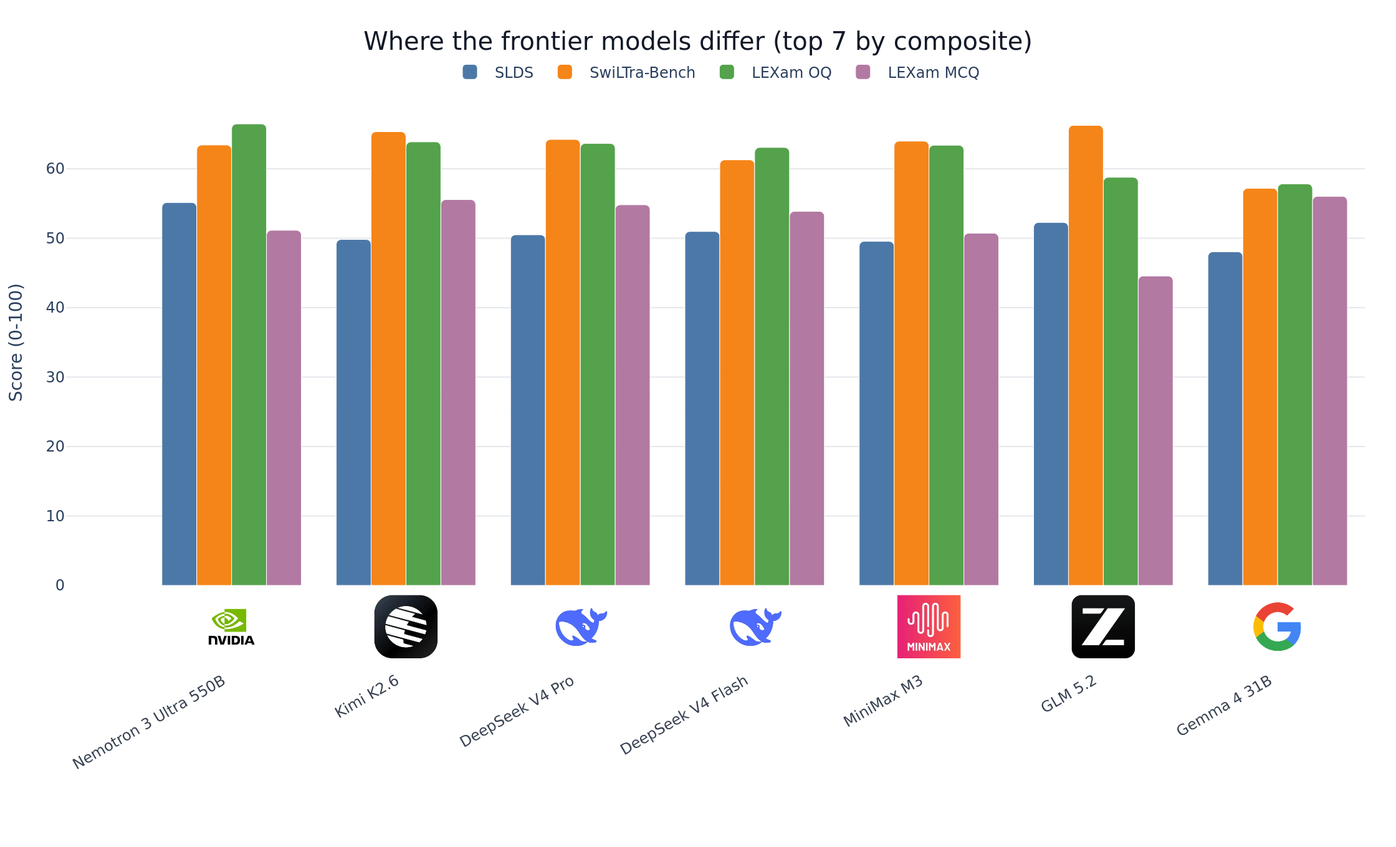
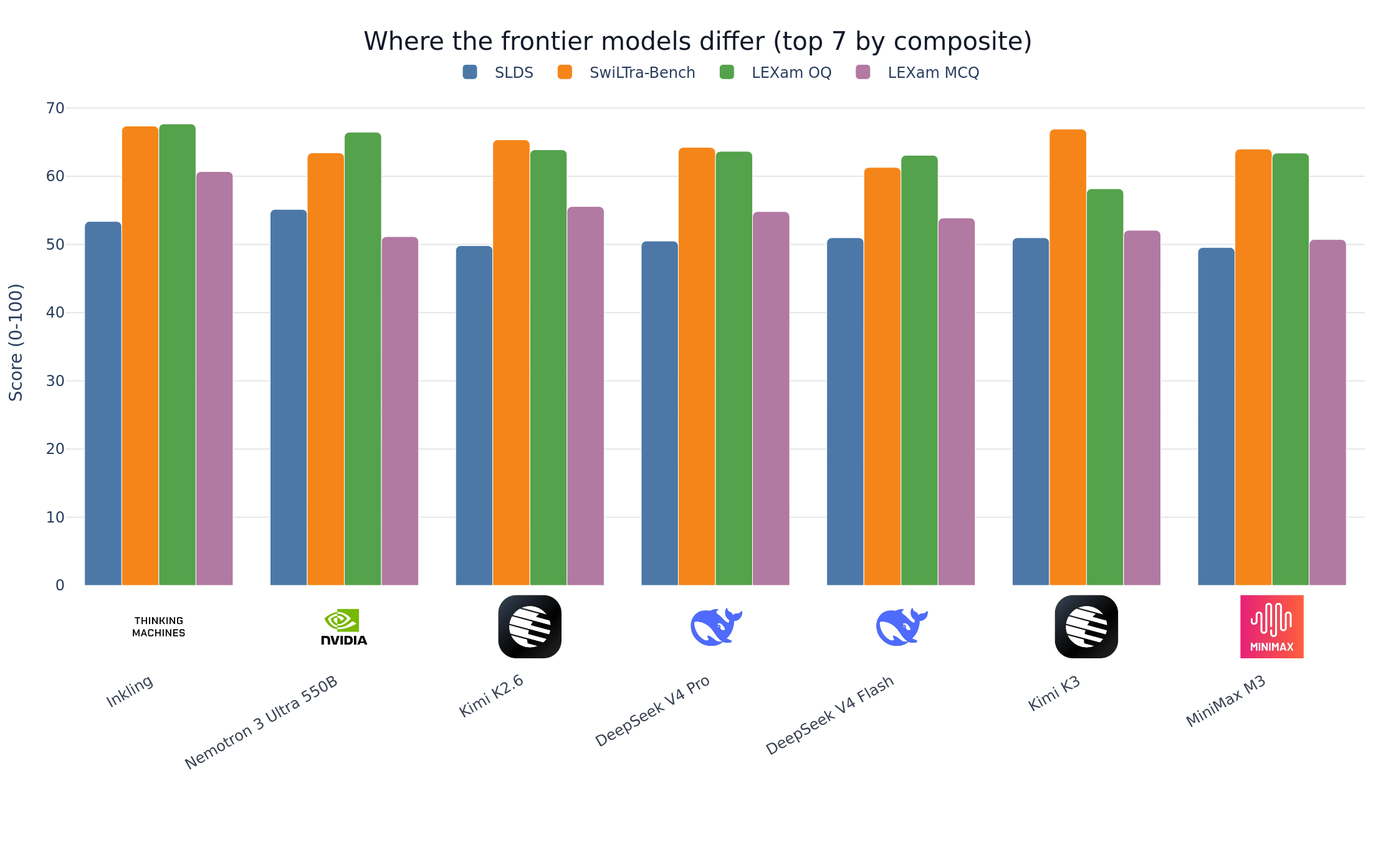
Refresh the blog on all 16 models with corrected MCQ scores
Inkling and Kimi K3 complete the field, and Qwen, OLMo, Apertus and Llama now
carry numbers that are not distorted by the reasoning-trace and option-shuffle
bugs. Both fixes moved models several ranks, so the post needed rewriting rather
than patching: Inkling leads three of four groups, Apertus's MCQ score is 33.8
instead of the 14.0 the shuffle bug produced, and Qwen's translation average
gained 20 points once the judge stopped reading its thinking as the answer.

The lead is reported as provisional because the bootstrap says it is. Adding
the interval as a script makes the claim checkable instead of asserted.

diff --git a/scripts/bootstrap_composite.py b/scripts/bootstrap_composite.py
@@ -1,0 +1,93 @@
+"""Bootstrap a confidence interval for each model's composite score.
+
+The composite averages four task groups, so a ranking gap only means something
+if it survives the spread of the tasks inside those groups. Resampling tasks
+within each group with replacement gives the interval the blog post quotes when
+it calls the leading models tied.
+
+    python scripts/bootstrap_composite.py [--resamples 10000]
+"""
+
+from __future__ import annotations
+
+import argparse
+import logging
+import pathlib
+import sys
+
+import numpy as np
+import pandas as pd
+
+sys.path.insert(0, str(pathlib.Path(__file__).resolve().parents[1] / "src"))
+from swiss_legal_evals.plot import PRIMARY_METRICS  # noqa: E402
+
+logger = logging.getLogger(__name__)
+
+SUMMARY_LONG_CSV = pathlib.Path("results/summary_long.csv")
+# The composite averages these four groups equally, and each group averages its
+# families equally, so the bootstrap has to preserve both levels of weighting.
+GROUPS = {
+    "slds": ["slds"],
+    "lexam_oq": ["lexam_oq"],
+    "translation": ["sdst", "slt", "sscprt"],
+    "mcq": ["lexam_mcq_4_idk", "lexam_mcq_8_idk", "lexam_mcq_16_idk"],
+}
+MCQ_SCALE = 100.0
+
+
+def _task_scores(df: pd.DataFrame) -> pd.DataFrame:
+    """One primary-metric score per model, family, and task."""
+    rows = []
+    for (model, family, task), group in df.groupby(["model", "family", "task"]):
+        if family not in PRIMARY_METRICS:
+            continue
+        available = group["metric"].tolist()
+        metric = next((m for m in PRIMARY_METRICS[family] if m in available), None)
+        if metric is None:
+            continue
+        value = group.loc[group["metric"] == metric, "value"].iloc[0]
+        # MCQ accuracy is 0-1 while the judges score 0-100.
+        scaled = value * MCQ_SCALE if family.startswith("lexam_mcq") else value
+        rows.append({"model": model, "family": family, "task": task, "score": scaled})
+    return pd.DataFrame(rows)
+
+
+def _composite(family_means: dict[str, float]) -> float:
+    return float(np.mean([np.mean([family_means[f] for f in fams]) for fams in GROUPS.values()]))
+
+
+def bootstrap_model(scores: pd.DataFrame, resamples: int, rng: np.random.Generator) -> tuple[float, float]:
+    """Composite score and the half-width of its 95% interval for one model."""
+    by_family = {f: sub["score"].to_numpy() for f, sub in scores.groupby("family")}
+    draws = np.empty(resamples)
+    for i in range(resamples):
+        # Resample tasks inside each family, so every family keeps its weight.
+        draws[i] = _composite({f: rng.choice(v, size=len(v), replace=True).mean() for f, v in by_family.items()})
+    low, high = np.percentile(draws, [2.5, 97.5])
+    return _composite({f: v.mean() for f, v in by_family.items()}), float((high - low) / 2)
+
+
+def main() -> None:
+    logging.basicConfig(level=logging.INFO, format="%(message)s")
+    parser = argparse.ArgumentParser(description=__doc__)
+    parser.add_argument("--resamples", type=int, default=10_000)
+    parser.add_argument("--summary-long", type=pathlib.Path, default=SUMMARY_LONG_CSV)
+    args = parser.parse_args()
+
+    scores = _task_scores(pd.read_csv(args.summary_long))
+    rng = np.random.default_rng(0)
+    rows = []
+    needed = {family for families in GROUPS.values() for family in families}
+    for model, sub in scores.groupby("model"):
+        # Translation-only models have no composite to speak of.
+        if not needed <= set(sub["family"]):
+            continue
+        composite, half_width = bootstrap_model(sub, args.resamples, rng)
+        rows.append({"model": model, "composite": composite, "half_width_95": half_width})
+
+    table = pd.DataFrame(rows).sort_values("composite", ascending=False).round(2)
+    logger.info("\n%s", table.to_string(index=False))
+
+
+if __name__ == "__main__":
+    main()

diff --git a/blog/make_figures.py b/blog/make_figures.py
@@ -53,6 +53,7 @@ DISPLAY_NAMES = {
     "GLM-5.2": "GLM 5.2",
     "Hy-MT2-30B-A3B": "Hunyuan MT2 30B",
     "Kimi-K2.6": "Kimi K2.6",
+    "Kimi-K3": "Kimi K3",
     "Llama-3.3-70B-Instruct": "Llama 3.3 70B",
     "LFM2.5-8B-A1B": "LFM2.5 8B",
     "MiniMax-M3": "MiniMax M3",
@@ -63,6 +64,7 @@ DISPLAY_NAMES = {
     "Apertus-v1.5-70B": "Apertus 1.5 70B",
     "gemma-4-31B-it": "Gemma 4 31B",
     "gpt-oss-120b": "gpt-oss 120B",
+    "Inkling": "Inkling",
 }
 
 # Display name -> Hugging Face org that publishes it (source of the logo).
@@ -72,6 +74,7 @@ ORG_BY_MODEL = {
     "GLM 5.2": "zai-org",
     "Hunyuan MT2 30B": "tencent",
     "Kimi K2.6": "moonshotai",
+    "Kimi K3": "moonshotai",
     "Llama 3.3 70B": "meta-llama",
     "LFM2.5 8B": "LiquidAI",
     "MiniMax M3": "MiniMaxAI",
@@ -82,12 +85,15 @@ ORG_BY_MODEL = {
     "Apertus 1.5 70B": "swiss-ai",
     "Gemma 4 31B": "google",
     "gpt-oss 120B": "openai",
+    "Inkling": "thinkingmachines",
 }
 
 # One distinct, roughly brand-aligned colour per model.
 BRAND_COLORS = {
     "Nemotron 3 Ultra 550B": "#76B900",
     "Kimi K2.6": "#6D5AE6",
+    "Kimi K3": "#9C8CF5",
+    "Inkling": "#1F2937",
     "DeepSeek V4 Pro": "#4D6BFE",
     "DeepSeek V4 Flash": "#8AA0FF",
     "MiniMax M3": "#E1275C",

diff --git a/blog/swiss-legal-evals-2026.md b/blog/swiss-legal-evals-2026.md
@@ -1,22 +1,22 @@
 # The state-of-the-art in open-source AI for Swiss legal tasks
 
-*Joel Niklaus · July 28 2026*
+*Joel Niklaus · August 3 2026*
 
-If you need an open-weight LLM for Swiss legal work in German, French, or Italian, there is no single best model in 2026. We evaluated 15 open models on three Swiss legal benchmarks, 55,861 scored samples each, and the top five finish within 2.1 points on our composite score.
+If you need an open-weight LLM for Swiss legal work in German, French, or Italian, the answer in 2026 depends on the task and on what you can afford to serve. We evaluated 17 open models on three Swiss legal benchmarks, 55,861 scored samples each for the 16 that ran the full task set, and the models ranked second through seventh finish within 2.1 points of each other on our composite score.
 
-The model that wins overall is not the best translator. And the best translator is one of the weakest at multiple-choice law questions. So the right question is not "which open model is best" but "best at what."
+One model does lead almost everywhere: Thinking Machines' Inkling tops three of the four task groups. But its 3.3-point margin is smaller than the uncertainty on the score, and it is also the most expensive model here to serve, at roughly 1.9 TB of BF16 weights. So the useful question is not "which open model is best" but "best at what, on hardware you can actually run."
 
 This post is for anyone deciding which open model to run on Swiss legal text, and for anyone who wants the current numbers instead of vibes. All results come from a single full run: the raw outputs live in the public [Hugging Face bucket](https://huggingface.co/buckets/joelniklaus/SwissLegalEvals), and the [`run.py` entry point](https://github.com/JoelNiklaus/SwissLegalEvals/blob/main/src/swiss_legal_evals/run.py) reproduces every number below.
 
-**TL;DR:** Choose GLM 5.2 for translation, Nemotron or a DeepSeek V4 variant for summarization and open-ended legal reasoning, and Gemma 4 31B for local deployment. Gemma scores 54.8 overall and leads the MCQ benchmark; it fits on local hardware while every model above it is a much larger MoE served in the cloud. Apertus 1.5 70B is near the top on translation but collapses on MCQ; Mistral Medium 3.5 128B sits mid-pack.
+**TL;DR:** Inkling scores highest overall (62.3) and leads translation, open questions, and multiple choice, but needs a 14-GPU server. Nemotron 3 Ultra is the best summarizer and the strongest model that fits on four H100s. Gemma 4 31B is the local-deployment pick: 54.8 overall and second on MCQ from a single GPU. Apertus 1.5 70B is the best model in the field at translating Swiss court decisions.
 
-![Overall composite score across SLDS, SwiLTra-Bench, and LEXam for 14 comparable open models](figures/overall_ranking.png)
+![Overall composite score across SLDS, SwiLTra-Bench, and LEXam for 16 comparable open models](figures/overall_ranking.png)
 
-NVIDIA's Nemotron 3 Ultra 550B leads the composite at 59.0. But Kimi K2.6 (58.6), DeepSeek V4 Pro (58.3), DeepSeek V4 Flash (57.3), and MiniMax M3 (56.9) trail by only 0.4, 0.7, 1.7, and 2.1 points.
+Inkling leads the composite at 62.3. Nemotron 3 Ultra 550B follows at 59.0, then Kimi K2.6 (58.6), DeepSeek V4 Pro (58.3), DeepSeek V4 Flash (57.3), Kimi K3 (57.0), and MiniMax M3 (56.9).
 
-The top five are effectively tied. A task-level bootstrap over the same result files (10,000 resamples within each benchmark family) gives 95% intervals with half-widths of roughly 3.2 to 3.6 points, wider than the 2.1-point gap between first and fifth. That uncertainty is also consistent with recent LLM-as-judge work: [JudgeSense](https://arxiv.org/abs/2604.23478) finds that equivalent prompt rephrasings can flip judge decisions, and [Li et al.](https://arxiv.org/abs/2506.22316) show that score-based judges shift under rubric and reference-answer perturbations. The composite averages four task groups (SLDS summarization, LEXam open questions, translation, and MCQ), each on a 0-100 scale.
+Ranks two through seven are effectively tied, and Inkling's lead is suggestive rather than established. A task-level bootstrap over the same result files (10,000 resamples within each benchmark family, `scripts/bootstrap_composite.py`) gives 95% intervals with half-widths of roughly 3.2 to 3.9 points for this tier — wider than both the 2.1 points separating second from seventh and the 3.3 points separating first from second. That uncertainty is also consistent with recent LLM-as-judge work: [JudgeSense](https://arxiv.org/abs/2604.23478) finds that equivalent prompt rephrasings can flip judge decisions, and [Li et al.](https://arxiv.org/abs/2506.22316) show that score-based judges shift under rubric and reference-answer perturbations. The composite averages four task groups (SLDS summarization, LEXam open questions, translation, and MCQ), each on a 0-100 scale.
 
-The gap only becomes decisive further down, with one exception. Gemma 4 31B reaches 54.8 overall, seventh place and within 0.7 of GLM 5.2 (55.5), which is striking for a 31B model sitting among the 500B-class frontier. Size alone does not explain the rest. Mistral Medium 3.5 128B (48.1) is a dense mid-pack model: competent on translation and MCQ, weak on SLDS. Apertus 1.5 70B (40.2) and Llama 3.3 70B (33.0) both land below Qwen3.5 35B (42.8), a mixture-of-experts that activates only 3B parameters per token, despite posting strong translation scores. OLMo 3.1 32B Think is dense and the same size as Gemma, yet scores 26.0, under half as well. And LFM2.5 8B (24.8), the only genuinely small model here, sits at the bottom. None of these lower-tier models are ready for Swiss legal work yet.
+The gap only becomes decisive further down, with one exception. Gemma 4 31B reaches 54.8 overall, ninth place and within 0.7 of GLM 5.2 (55.5), which is striking for a 31B model sitting among the 500B-class frontier. Size alone does not explain the rest. Qwen3.5 35B (50.0), a mixture-of-experts that activates only 3B parameters per token, finishes ahead of both Mistral Medium 3.5 128B (48.1) and the two dense 70B models, Apertus 1.5 70B (45.2) and Llama 3.3 70B (39.9). OLMo 3.1 32B Think is dense and the same size as Gemma, yet scores 30.6, a little over half as well. And LFM2.5 8B (24.8), the only genuinely small model here, sits at the bottom. None of these lower-tier models are ready for Swiss legal work yet.
 
 One property the scores do not capture: Apertus 1.5 70B and OLMo 3.1 32B Think are the only two open-data models in the field, publishing their training corpora and pipelines rather than just the weights. For courts, administrations, and other public-sector buyers, that auditability can weigh as much as a few composite points, since you can inspect what the model was trained on instead of taking it on trust.
 
@@ -32,51 +32,51 @@ We score generative tasks with LLM judges from the benchmarks' own papers, not B
 
 Every model runs in its **default reasoning configuration**. We never pass a thinking toggle in either direction, so each model reasons exactly as its own chat template ships it, and a model that thinks by default is measured as such. Before scoring we strip the trace so the judges and the multiple-choice letter extractor see only the final answer: tagged traces (`<think>`, `<reasoning>`), including the templates that pre-seed the opening tag into the prompt and leave only the closing tag in the completion, and harmony-style channel markers. Models that reason in unmarked prose instead of tags, Nemotron 3 Ultra being the clearest case, cannot be cleaned this way. On the judged tasks they open with the answer anyway, and on multiple choice the score comes from the explicit answer marker at the end, so the monologue does not reach the metric.
 
-## Where the frontier models differ: pick by task, not by rank
+## Where the frontier models differ: pick by task and hardware, not by rank
 
 Averaging into one number hides where these models actually diverge. The per-group view is what you should use to choose.
 
 ![Per-group scores for the top seven models by composite](figures/task_group_profile.png)
 
-Nemotron wins the composite by leading two groups outright: SLDS summarization at 55.1 (the only model above 53) and LEXam open questions at 66.5.
+Inkling is the broadest model in the field, leading translation (67.4), LEXam open questions (67.7), and MCQ (60.7). The one group it does not win is summarization, where Nemotron 3 Ultra takes SLDS at 55.1 against Inkling's 53.4.
 
-GLM 5.2 is the mirror image. It is the best translator at 66.2, but the weakest of this tier on LEXam open questions (58.8) and MCQ (44.6), which is why it drops to sixth overall despite topping translation.
+GLM 5.2 is the specialist counterexample. It is third at translation (66.2, within 1.2 of the top) but the weakest of this tier on LEXam open questions (58.8) and MCQ (44.6), which is why it sits eighth overall.
 
-If your workload is translation, run GLM 5.2. If it is summarization or open-ended legal reasoning, run Nemotron or a DeepSeek V4 variant. And if you need to run on your own hardware, Gemma 4 31B is the standout: it holds 54.8 overall and tops the field on MCQ, at a size that fits on local hardware while every model above it is a far larger MoE served in the cloud.
+So the choice comes down to what you run and where. For translation, Inkling, Kimi K3 (66.9), and GLM 5.2 (66.2) are separated by 1.2 points, and you should pick on serving cost. For summarization, Nemotron 3 Ultra is the clear choice and also the most practical of the leaders, since NVFP4 weights let it run on four H100s. For open-ended legal reasoning, Inkling and Nemotron lead. And if you need your own hardware, Gemma 4 31B is the standout: 54.8 overall and second on MCQ from a single GPU, while every model ranked above it is a far larger MoE served in the cloud.
 
 ## Summarization is the hardest of the four task groups
 
-Writing the headnote for a Federal Supreme Court leading decision is where open models are weakest. The best SLDS score in the field is 55.1, while the best translation average is 66.2, the best LEXam open-question score 66.5, and the best MCQ average 56.0. The mean across the fourteen models that ran SLDS is 40.5.
+Writing the headnote for a Federal Supreme Court leading decision is where open models are weakest. The best SLDS score in the field is 55.1, while the best translation average is 67.4, the best LEXam open-question score 67.7, and the best MCQ average 60.7. The mean across the sixteen models that ran SLDS is 42.5.
 
-![SLDS headnote summarization judge score for the 14 models that ran the benchmark](figures/slds.png)
+![SLDS headnote summarization judge score for the 16 models that ran the benchmark](figures/slds.png)
 
-Nemotron 3 Ultra leads at 55.1, the only model above 53, which is most of why it wins the composite. GLM 5.2 is second at 52.3 despite being the weakest of the frontier tier on both LEXam groups, so its profile is strong generation and weak selection. DeepSeek V4 Flash (51.0) edges out DeepSeek V4 Pro (50.5), the larger sibling.
+Nemotron 3 Ultra leads at 55.1, the only model above 54, and this is the one group where it beats Inkling (53.4). GLM 5.2 is third at 52.3 despite being the weakest of the frontier tier on both LEXam groups, so its profile is strong generation and weak selection. DeepSeek V4 Flash and Kimi K3 tie at 51.0, both edging out DeepSeek V4 Pro (50.5).
 
-The middle of the field is compressed. Nine models sit between 46.3 and 55.1, a range narrower than the gap between ninth and tenth place. Qwen3.5 35B is the notable entry there at 46.7, ahead of gpt-oss 120B and within 1.3 points of Gemma 4 31B: a mixture-of-experts activating 3B parameters per token holds its own on summarization, even though weak translation drops it to tenth overall.
+The middle of the field is compressed. Nine models sit between 46.3 and 53.4, a range narrower than the gap between ninth and tenth place. Qwen3.5 35B is the notable entry there at 46.7, ahead of gpt-oss 120B and within 1.3 points of Gemma 4 31B: a mixture-of-experts activating 3B parameters per token holds its own on summarization.
 
-Below that cluster the field falls off a cliff. Apertus 1.5 70B manages 38.0 and Mistral Medium 3.5 128B 34.0, both roughly 8 to 12 points below the compressed middle. OLMo 3.1 32B Think (18.4), Llama 3.3 70B (16.1), and LFM2.5 8B (11.1) are at the floor: they do not reliably produce a usable headnote at all, which is the single biggest reason their composite scores collapse.
+Below that cluster the field falls off a cliff. Apertus 1.5 70B manages 38.0 and Mistral Medium 3.5 128B 34.0, both roughly 8 to 12 points below the compressed middle. OLMo 3.1 32B Think (26.8), Llama 3.3 70B (16.1), and LFM2.5 8B (11.1) are at the floor: they do not reliably produce a usable headnote at all, which is the single biggest reason their composite scores collapse.
 
-Two details are worth knowing before you trust these numbers. SLDS is judged by DeepSeek V4 Pro, so the DeepSeek models could carry a self-preference bias, though in practice both land mid-tier rather than first, which argues against a large effect. And headnote language matters: averaged over all models the German headnotes score 42.8, French 41.5, and Italian 37.2, and staying in the source language (42.4) beats translating across it (39.5).
+Two details are worth knowing before you trust these numbers. SLDS is judged by DeepSeek V4 Pro, so the DeepSeek models could carry a self-preference bias, though in practice both land mid-tier rather than first, which argues against a large effect. And headnote language matters: averaged over all models the German headnotes score 45.1, French 44.0, and Italian 38.4, and staying in the source language (44.2) beats translating across it (41.6).
 
 ## A 3B-active specialist nearly matches the frontier in translation
 
-The models perform best in translation: twelve of fifteen score at least 57 out of 100. GLM 5.2 tops it at 66.2, ahead of Kimi K2.6 (65.3) and Apertus 1.5 70B (65.2). Apertus is the Swiss open model in this lineup, and on translation it sits with the frontier MoEs — third overall, and first on court-decision summaries at 71.7.
+The models perform best in translation: fifteen of seventeen score at least 57 out of 100. Inkling tops it at 67.4, ahead of Kimi K3 (66.9), GLM 5.2 (66.2), Kimi K2.6 (65.3), and Apertus 1.5 70B (65.2). Apertus is the Swiss open model in this lineup, and on translation it sits with the frontier MoEs — fifth on the average, and first of all seventeen on court-decision summaries at 71.7.
 
 
-![SwiLTra-Bench translation average for all 15 models](figures/translation.png)
+![SwiLTra-Bench translation average for all 17 models](figures/translation.png)
 
 
-The efficiency surprise is Hunyuan MT2 30B, a translation specialist with only 3B active parameters (we ran it on SwiLTra-Bench only). It lands seventh at 61.9, within 4.3 points of the best open translator, GLM 5.2 (66.2). The six models ahead of it activate far more per token, from MiniMax M3's 23B up to Nemotron 3 Ultra's 55B, so a model with 8x to 18x fewer active parameters is nearly matching the frontier on translation. The takeaway cuts two ways: a specialist does not win on raw quality, but no model on the board delivers more per active parameter. If you are compute-bound, Hunyuan MT2 is the translation model to watch. If you only want the best output, the big MoEs still win.
+The efficiency surprise is Hunyuan MT2 30B, a translation specialist with only 3B active parameters (we ran it on SwiLTra-Bench only). It lands tenth at 61.9, within 5.5 points of the best open translator. The models ahead of it activate far more per token, from MiniMax M3's 23B up to Nemotron 3 Ultra's 55B and Kimi K3's 104B, so a model with 8x to 35x fewer active parameters is close to the frontier on translation. The takeaway cuts two ways: a specialist does not win on raw quality, but no model on the board delivers more per active parameter. If you are compute-bound, Hunyuan MT2 is the translation model to watch. If you only want the best output, the big MoEs still win.
 
 ## Not all legal text is equally hard to translate
 
 SwiLTra-Bench splits into three document types, and they are not equally hard.
 
-![Translation judge scores on the three SwiLTra-Bench subsets for all 15 models](figures/translation_subsets.png)
+![Translation judge scores on the three SwiLTra-Bench subsets for all 17 models](figures/translation_subsets.png)
 
-For the strong models the order is consistent: court-decision summaries are easiest, statutory law sits in the middle, and press releases are hardest. Apertus leads decision summaries at 71.7, GLM 5.2 scores 71.0 there but 60.5 on press releases, and every model in the top tier ranks the subsets in that same order. DeepSeek V4 Pro is the one that pulls ahead on press releases (61.2, the only score above 61 on that subset).
+For the strong models the order is consistent: court-decision summaries are easiest, statutory law sits in the middle, and press releases are hardest. Apertus leads decision summaries at 71.7, just ahead of GLM 5.2 and Kimi K3 (both 71.0), and every model in the top tier ranks the subsets in that same order. Press releases separate the leaders most: Inkling manages 62.5 and DeepSeek V4 Pro 61.2, while Apertus drops to 56.9 there, which is what pulls its translation average below the top four.
 
-The pattern breaks for the weaker models, and the breakage is revealing. Gemma 4 31B stays near the frontier on decision summaries (63.5) and press releases (59.2) but drops to 48.9 on statutory law, a 14.6-point gap between its strongest and weakest subsets. Qwen3.5 35B inverts the usual order entirely, with law its worst subset (30.6) and press releases its best (51.5). OLMo 3.1 32B all but fails press releases at 9.6. If your workload is one specific document type, these subset scores matter more than the translation average.
+The pattern breaks for the weaker models, and the breakage is revealing. Gemma 4 31B stays near the frontier on decision summaries (63.5) and press releases (59.2) but drops to 48.9 on statutory law, a 14.6-point gap between its strongest and weakest subsets — the widest spread in the field. OLMo 3.1 32B Think inverts the usual order, with statutory law its best subset (41.0) and press releases its worst (27.3). If your workload is one specific document type, these subset scores matter more than the translation average.
 
 ## Multiple-choice accuracy collapses as options grow
 
@@ -84,9 +84,9 @@ Every model degrades from 4 to 16 answer options, and the drop is steep.
 
 ![LEXam MCQ accuracy at 4, 8, and 16 answer options](figures/mcq_scaling.png)
 
-Kimi K2.6 falls from 67.9% at four options to 44.0% at sixteen. Nemotron falls from 63.1% to 41.7%.
+Inkling falls from 71.4% at four options to 50.9% at sixteen. Kimi K2.6 falls from 67.9% to 44.0%, Nemotron from 63.1% to 41.7%. Nobody escapes the pattern, and the ordering of models is broadly stable across the three widths.
 
-Model size does not protect against this. Gemma 4 31B posts the best MCQ average of the entire field (56.0), ahead of every 500B-class model. For these exam questions, a smaller dense model beats much larger MoEs. Apertus 1.5 70B is the other side of that coin: near-frontier on translation (65.2) and last on MCQ (14.0), the same collapse as Llama 3.3 70B (14.9). Strong Swiss-language generation does not imply exam-style selection.
+Model size does not protect against this. Gemma 4 31B posts an MCQ average of 56.0, second only to Inkling (60.7) and ahead of every 500B-class model in the field. For these exam questions, a 31B dense model beats much larger MoEs. Apertus 1.5 70B is the other side of that coin: near-frontier on translation (65.2) but 33.8 on MCQ, third-lowest and about 22 points behind Gemma at every option count. Strong Swiss-language generation does not imply exam-style selection.
 
 ## Models guess instead of admitting uncertainty
 
@@ -94,25 +94,25 @@ The `trad_score` in the chart above treats "I don't know" as simply wrong. LEXam
 
 ![Penalty-adjusted MCQ score (idk_score) at 4, 8, and 16 answer options](figures/mcq_idk_score.png)
 
-At four options, 11 of the 14 models come out positive, led by Kimi K2.6 at 37.9 with Gemma 4 31B (33.7) and Nemotron 3 Ultra (33.6) just behind. At eight options only six are still above zero. At sixteen, not one model is: the two DeepSeek variants come closest to break-even (-4.3 and -6.0), followed by Gemma (-7.5) and Kimi (-11.5), while Apertus 1.5 70B finishes last at -88.2. On a wide option set, every model in this evaluation loses points by answering where it should have declined.
+At four options, 14 of the 16 models come out positive, led by Inkling at 43.1 with Kimi K2.6 (37.9), Gemma 4 31B (33.7), and Nemotron 3 Ultra (33.6) behind it. At eight options only eight are still above zero. At sixteen, exactly one model is: Inkling, at +1.8. The DeepSeek variants come closest to break-even behind it (-4.3 and -6.0), followed by Gemma (-7.5), while LFM2.5 8B (-61.3), OLMo 3.1 32B Think (-48.7), and Apertus 1.5 70B (-48.6) are deep in the red. On a wide option set, almost every model here loses points by answering where it should have declined.
 
 ![How often each model picks the reserved "I don't know" option](figures/mcq_abstention.png)
 
-The abstention rates explain why, and they run backwards. Every model that abstains meaningfully at four options does so far less at sixteen, exactly where its chance of guessing right falls from one in four to one in sixteen. OLMo 3.1 32B Think is the most willing to decline, on 37.1% of four-option questions but only 5.2% at sixteen; LFM2.5 8B goes from 24.3% to 3.6%, DeepSeek V4 Pro from 7.3% to 0.9%. Llama 3.3 70B effectively never abstains (0.1% at its highest), and Gemma 4 31B, the accuracy leader, declines on 0.9% of four-option questions and on none of the sixteen-option ones. Because abstention is this rare on the wide set, `idk_score` at 16 options is close to twice the accuracy minus 100, so it barely reorders the field; what it adds is the level, not the ranking.
+The abstention rates explain why, and they run backwards. Every model that abstains meaningfully at four options does so far less at sixteen, exactly where its chance of guessing right falls from one in four to one in sixteen. OLMo 3.1 32B Think is the most willing to decline, on 36.8% of four-option questions but only 3.4% at sixteen; LFM2.5 8B goes from 24.3% to 3.6%, DeepSeek V4 Pro from 7.3% to 0.9%. Llama 3.3 70B never abstains at all, and the two accuracy leaders barely do: Inkling declines on 0.2% of four-option questions and Gemma on 0.9%, and at sixteen options they effectively never do (0.1% and 0.0%). Because abstention is this rare on the wide set, `idk_score` at 16 options is close to twice the accuracy minus 100, so it barely reorders the field; what it adds is the level, not the ranking.
 
-Two caveats. Unparseable answers also score -1, so GLM 5.2, which fails to yield an extractable letter on 16 to 19% of questions, is penalized partly for formatting rather than for guessing. And abstention has to be earned: OLMo's readiness to decline comes with an MCQ average of 26.4%, fourth-lowest in the field, so declining is not by itself evidence of good calibration. For deployment the practical reading is that none of these models reliably tells you when it does not know, so the confidence gate has to sit outside the model.
+Two caveats. Unparseable answers also score -1, so GLM 5.2, which fails to yield an extractable letter on 17.5% of questions on average, is penalized partly for formatting rather than for guessing. And abstention has to be earned: OLMo's readiness to decline comes with an MCQ average of 27.7%, second-lowest in the field, so declining is not by itself evidence of good calibration. For deployment the practical reading is that only one model in this field stays above water when the option set is wide, so the confidence gate generally has to sit outside the model.
 
 ## Italian is the hardest of the three Swiss languages
 
 Averaging every German, French, and Italian task a model produces (SLDS plus the three translation subsets, the benchmarks that cover all three languages) exposes a small but consistent gap.
 
-![Mean judge score by Swiss language across SLDS and translation for the 14 comparable models](figures/language_comparison.png)
+![Mean judge score by Swiss language across SLDS and translation for the 16 comparable models](figures/language_comparison.png)
 
-French comes out highest on average (50.4 across the 14 comparable models), German is close behind (50.0), and Italian is last (48.1). The gap is a little over two points, and Italian is the lowest of the three for 9 of the 14 models. German and French remain within half a point of each other. The likely cause is data volume, since Italian is the smallest of the three languages in Swiss legal corpora and on the open web. LEXam is left out of this cut because it exists only in German and English, and including it would compare the languages on an unequal benchmark mix.
+French comes out highest on average (53.5 across the 16 comparable models), German is close behind (53.0), and Italian is last (50.5). The gap is about three points, and Italian is the lowest of the three for 11 of the 16 models. German and French remain within half a point of each other. The likely cause is data volume, since Italian is the smallest of the three languages in Swiss legal corpora and on the open web. LEXam is left out of this cut because it exists only in German and English, and including it would compare the languages on an unequal benchmark mix.
 
 ## Model sizes and the hardware to run them
 
-Two numbers decide the cost of serving a model. Total parameters set how much memory the weights occupy, and active parameters set how much compute each token costs. The open field here runs from 8.5B to 2.8T total parameters, and native precision matters as much as parameter count. Kimi K3 and Inkling are listed for sizing; their benchmark runs are still in flight, so they do not yet appear in the score charts above.
+Two numbers decide the cost of serving a model. Total parameters set how much memory the weights occupy, and active parameters set how much compute each token costs. The open field here runs from 8.5B to 2.8T total parameters, and native precision matters as much as parameter count.
 
 | Model                      | Total | Active | Precision | Weights  | Runs on       |
 |----------------------------|------:|-------:|-----------|---------:|---------------|
@@ -136,7 +136,9 @@ Two numbers decide the cost of serving a model. Total parameters set how much me
 
 Weights are total parameters times bytes per parameter (BF16 = 2, FP8 = 1, INT4/FP4 = 0.5), before the KV cache that long context adds; GPU counts assume 80 GB (H100) or 141 GB (H200) cards. Kimi K3 is the exception to that arithmetic: it quantizes its experts to 4 bits but keeps attention and embeddings in BF16, so its published checkpoint is ~1.55 TB rather than the ~1.4 TB a flat 4-bit rule would predict. We ran local vLLM models above the weight-only minimum for 64k-context throughput (Apertus on 4 H100s, Mistral Medium on 8).
 
-Precision shifts the picture as much as size. Kimi K2.6 has more total parameters than GLM 5.2 (1T versus 753B), but it ships as INT4, so its weights (~0.5 TB) are a third of GLM's BF16 footprint (~1.5 TB). The same inversion appears at the top of the table: Kimi K3 carries nearly three times Inkling's parameters (2.8T versus 975B) yet needs less memory (~1.55 TB versus ~1.9 TB), because it ships mostly quantized while Inkling ships in BF16. Mistral Medium 3.5 is a dense 128B that ships in FP8 (~128 GB), so it fits where a BF16 twin would not. Eleven of the seventeen models need a multi-GPU server; the other six fit on one accelerator, and five of those run on a single 80 GB H100. That is the case for Gemma 4 31B: near-frontier quality (54.8 overall) from one GPU, while every model ranked above it needs several.
+Precision shifts the picture as much as size. Kimi K2.6 has more total parameters than GLM 5.2 (1T versus 753B), but it ships as INT4, so its weights (~0.5 TB) are a third of GLM's BF16 footprint (~1.5 TB). The same inversion appears at the top of the table: Kimi K3 carries nearly three times Inkling's parameters (2.8T versus 975B) yet needs less memory (~1.55 TB versus ~1.9 TB), because it ships mostly quantized while Inkling ships in BF16. Mistral Medium 3.5 is a dense 128B that ships in FP8 (~128 GB), so it fits where a BF16 twin would not. Eleven of the seventeen models need a multi-GPU server; the other six fit on one accelerator, and five of those run on a single 80 GB H100.
+
+This is where the ranking and the hardware pull against each other. Inkling wins the composite but is the heaviest model in the table, needing roughly fourteen H200s because it ships in BF16. Nemotron 3 Ultra, one rank below and statistically indistinguishable, fits on four H100s thanks to NVFP4, which makes it the most practical of the leaders by a wide margin. And Gemma 4 31B delivers 54.8 overall from a single GPU, 7.5 points behind the top of a field where every model ranked above it needs several.
 
 ## Known limitations
 
@@ -144,11 +146,11 @@ Treat the composite as indicative rather than a normalized benchmark: it mixes 0
 
 ## Conclusion
 
-The open frontier on Swiss legal tasks is close and specialized. Five models finish within 2.1 composite points, no single one wins every group, and the right pick depends on the job: GLM 5.2 for translation, Nemotron 3 Ultra or a DeepSeek V4 variant for summarization and open-ended reasoning, and Gemma 4 31B when you need near-frontier quality on a single GPU. Apertus 1.5 70B and Llama 3.3 70B reinforce the specialization point: both are strong translators (third and ninth) whose overall ranks fall because MCQ collapses. Mistral Medium 3.5 128B is the mid-pack dense option — usable, not competitive with the frontier MoEs. Absolute quality is not there yet. The strongest models score in the mid-60s on open legal exam questions and fall into the 40s on 16-option multiple choice, so a lawyer still has to check the output on real matters.
+The open frontier on Swiss legal tasks is close, and only one model is broad. Inkling leads three of the four groups, but by less than the uncertainty on the score, and the six models behind it finish within 2.1 points of each other. The right pick still depends on the job and the hardware: Inkling or Kimi K3 for translation if you can serve them, Nemotron 3 Ultra for summarization and the best quality per GPU among the leaders, and Gemma 4 31B when you need near-frontier quality on a single accelerator. Apertus 1.5 70B makes the specialization point most sharply: the best model in the field at translating court decisions, yet thirteenth of sixteen overall because summarization (38.0) and multiple choice (33.8) pull it down. Mistral Medium 3.5 128B is the mid-pack dense option — usable, not competitive with the frontier MoEs. Absolute quality is not there yet either. The strongest model scores 67.7 on open legal exam questions and 50.9 on 16-option multiple choice, and no other model clears 48 on the latter, so a lawyer still has to check the output on real matters.
 
 ## What this means for the Swiss Justice Base Model
 
-Apertus 1.5 demonstrates that the Swiss Justice Base Model (initiative from the Swiss Federal Supreme Court, the eJustice association and SwissAI) is on the right path. While it is not yet competitive across every benchmark — particularly multiple-choice legal reasoning — it already delivers frontier-level performance in multilingual Swiss legal translation, achieving the best results for Swiss court-decision translations, beating even models eight to twenty times its size. Even more importantly for the Swiss judiciary, Apertus is fully transparent and auditable, with openly published training data and pipelines, a rare characteristic among leading models. For courts and public administrations, this transparency, together with its strong performance on core judicial translation tasks and its ability to run securely on-premises, makes Apertus an excellent foundation on which the Swiss Justice Base Model can continue to improve through further domain-specific training and alignment.
+Apertus 1.5 demonstrates that the Swiss Justice Base Model (initiative from the Swiss Federal Supreme Court, the eJustice association and SwissAI) is on the right path. While it is not yet competitive across every benchmark — particularly multiple-choice legal reasoning — it already delivers frontier-level performance in multilingual Swiss legal translation, achieving the best results for Swiss court-decision translations, beating even models up to forty times its size. Even more importantly for the Swiss judiciary, Apertus is fully transparent and auditable, with openly published training data and pipelines, a rare characteristic among leading models. For courts and public administrations, this transparency, together with its strong performance on core judicial translation tasks and its ability to run securely on-premises, makes Apertus an excellent foundation on which the Swiss Justice Base Model can continue to improve through further domain-specific training and alignment.
 
 ## Reproduce this
 

diff --git a/README.md b/README.md
@@ -244,6 +244,8 @@ The scripts in `scripts/` are mostly for the Hopper Slurm environment used for t
 | `scripts/count_task_samples.py`  | Print per-task and per-group sample counts.             |
 | `scripts/run_cap_compare.sh`     | Run 16k vs 32k generation-cap experiments.              |
 | `scripts/analyze_cap_compare.py` | Summarize cap-comparison outputs.                       |
+| `scripts/check_mcq_integrity.py` | Verify MCQ runs scored the prompts they generated from. |
+| `scripts/bootstrap_composite.py` | 95% intervals for the composite, by resampling tasks.   |
 
 ## Implementation notes
 
